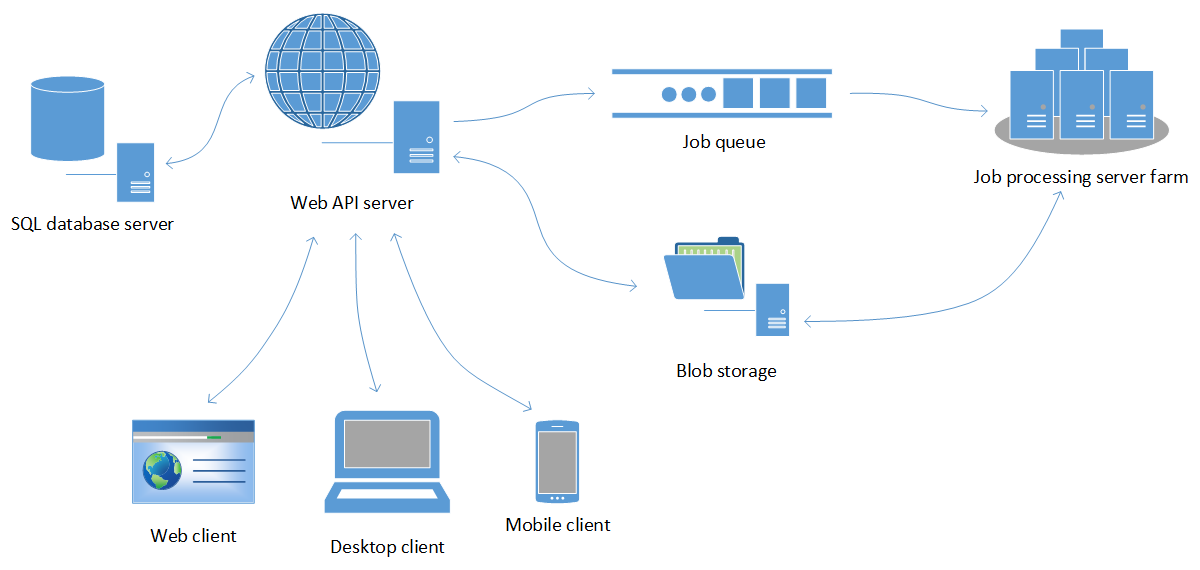
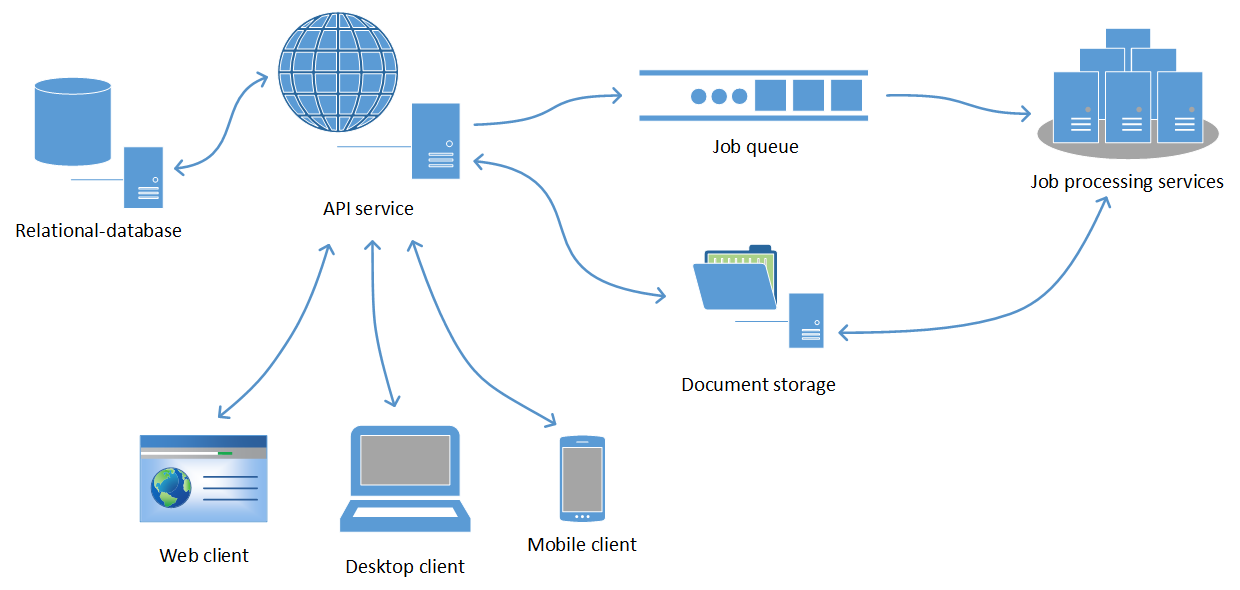
Update figures FEA-architecture and FEA-workflow, add placeholder for layers-tree-diagram

diff --git a/chapters/3-data-management.tex b/chapters/3-data-management.tex
@@ -1,11 +1,28 @@
 \chapter{FEA data management}
 \label{chapter:data-management}
 
-% Psat uz rovnou o mem reseni. Zadne okecavani.
-% Napsat, ze hodlam vyuzit model Software-as-a-service, popis dat bud do footnote, nebo do kapitoly Concepts.
+% TODO: pridat obecny uvod (zadne okecavani, primo k veci, ale jen k tem zakladnim principum)
+% Zopakovat, ze pred popisem samotneho formatu pro reprezentaci vysledku z MKP, je treba popsat architekturu celeho FEA systemu, ktery tyto data produkuje a se kterou to musi byt kompatibilni
+% Architektura je prototyp, na kterem se ma predvest system pro reprezentaci vysledku z FEM. Abych to zasadil do kontextu, popisu nejprve tuto architekturu.
 
 \section{System architecture}
 \label{sec:system-architecture}
+
+The prototype implementation of the FEA data management system is designed as a collaborative framework that can be accessed by users from different client devices. Figure \ref{fig:FEA-architecture} depicts the schema of the system architecture. System consists of several independent modules. The FEM calculation itself runs on a remote server as one of micro-services\footnote{TODO: micro-services} along with mesh generation service, results processing service, etc. These services are controlled by the application service that provides interface to the client applications in form of REST-ful web API\footnote{TODO: REST; REST-ful service; REST web API.}.
+
+% TODO: Client applications: either desktop (feature-rich) or web application(simple, basic control over calculation, presentation of resultsů; cross-platform, everywhere without installation)
+% TODO: Two databases. Relational-database to store project-related data and user data. Blob storage to save file-based data (input to mesh generator or FEM solver, output files). Vstup do FEMu (geometricky model v teto architekture muze byt reprezentovan bud vstupnim souborem vygenerovanym v CADu nebo muze byt ulozen)
+
+\begin{figure}[H]
+    \centering
+    \includegraphics[width=\textwidth]{figures/FEA-architecture}
+    \decoRule
+    \caption{FEA system architecture.}
+    \label{fig:FEA-architecture}
+\end{figure}
+
+The architecture relies on an abstraction provided by Platform-as-a-Service\footnote{PaaS. TODO: These services can be carried in a public cloud or on-premises. ...} computing model. No service component is tied directly to a specific machine. Hardware resources are allocated when they are needed by a service infrastructure controller. This makes the scaling and deployment of components easier and allows to focus on the problem domain instead of solving server configuration and networking issues.
+
 
 % project management, SQL relational database
 % zminit modeller a OOFEM-link, ukazka db modelu
@@ -16,15 +33,7 @@
 
 % project-management, storage-format, modeller (OOFEM-link, script-based engine), post-processors, layer format, filters
 
-Figure \ref{fig:FEA-architecture}, Figure \ref{fig:FEA-workflow}, Figure \ref{fig:FEA-db-schema}, Figure \ref{fig:FEA-db-schema-results}.
-
-\begin{figure}[H]
-    \centering
-    \includegraphics[width=\textwidth]{figures/FEA-architecture}
-    \decoRule
-    \caption{FEA system architecture.}
-    \label{fig:FEA-architecture}
-\end{figure}
+Figure \ref{fig:FEA-workflow}
 
 \begin{figure}[H]
     \centering
@@ -33,6 +42,16 @@ Figure \ref{fig:FEA-architecture}, Figure \ref{fig:FEA-workflow}, Figure \ref{fi
     \caption{FEA system workflow.}
     \label{fig:FEA-workflow}
 \end{figure}
+
+\section{Project-based data representation}
+
+% Centrem vseho je projekt, projekt ma uzivatele vlastnika a muze mit nekolik dalsich lidi, kteri maji pristup k projektu (ruzna prava, pro cteni ci pro zapis...)
+% V ramci jednoho projektu muze byt spusteno vice simulaci, kazda simulace muze mit jiny vstup - at uz geometricky model, atributy, ci jine parametry analyzy. Geometricky model a parametry mohou byt reprezentovany v relacni databazi jak je naznaceno na obrazku \ref{fig:FEA-db-schema}.
+% Tento model se da prirozene rozsirit o dalsi entity reprezentujici vysledky simulace, viz Figure Figure \ref{fig:FEA-db-schema-results}. Vysledek simulace reprezentuje entita Solution, ktera obsahuje odkaz na vystupni soubory z FEM solveru. Dale je zde entita Layer reprezentujici transformovane vysledky ze solveru do podoby vhodne pro postprocessing. (Vice v nasledujici kapitole.)
+
+Figure \ref{fig:FEA-db-schema}, Figure \ref{fig:FEA-db-schema-results}
+
+% TODO: add User entity to schema?
 
 \begin{figure}[H]
     \centering
@@ -50,10 +69,29 @@ Figure \ref{fig:FEA-architecture}, Figure \ref{fig:FEA-workflow}, Figure \ref{fi
     \label{fig:FEA-db-schema-results}
 \end{figure}
 
+% model and mesh in persistent storage
+
+
 \section{Storage format for results}
 \label{sec:storage-format}
 
+% Result converter component ma za ukol transformovat vysledky z FEM solveru do mojeho formatu (predpokladam pouziti solver komponenty, ktera ma vlastni proprietarni format, protoze se snazim navrhnout system nezavisly na jednotlivych komponentach)
+
+% Centrem vseho je solution. To muze byt reprezentovano entitou v DB. Pripadne solution.json souborem v pripadne vysledku ulozenych a postprocessovanych lokalne. Hlavni koncept pri postprocessingu ke vrstva - layer - reprezentuje sit konecnych prvku a korespondujici vysledky at uz v uzlech ci v prvcich. Tyto data mohou byt zkompresovana. Vysvetlit, proc mam vic vrstev. Proc nestaci jedna.
+% TODO: pridat obrazek stromu vrstev.
+
+Figure \ref{fig:layers-tree}
+
+\begin{figure}[H]
+    \centering
+    \includegraphics[width=0.5\textwidth]{figures/layers-tree-diagram}
+    \decoRule
+    \caption{Diagram of layers tree.}
+    \label{fig:layers-tree}
+\end{figure}
+
 % hodne se inspirovat oznacenymi vetami v clanku FEA-with-relational-DB
+
 
 % samotny seznam souboru, ktere pouzivam. Nerikat tomu soubory, ale dokumenty? objekty?
 % summary.json, mesh.json, attribute.json, and result.json - odkaz do Appendixu na example
@@ -62,6 +100,8 @@ Figure \ref{fig:FEA-architecture}, Figure \ref{fig:FEA-workflow}, Figure \ref{fi
 
 % konverze z tradicnich souboru do noveho formatu (do budoucna integrovat do solveru); data location Points/Cells/CellPoints, GP extrapolation
 
+% sit je krome vstupu dulezita i u vystupu. je nutne zachovat 1:1 mapovani vysledku na sit
+
 \subsection {Encoding}
 % base64, JSON, XML, ...
 
@@ -69,8 +109,8 @@ Figure \ref{fig:FEA-architecture}, Figure \ref{fig:FEA-workflow}, Figure \ref{fi
 % Compression methods: SVD, Wavelet, polynomial functions, ... Kazdou rozepsat, u Wavelet zminit Hilbert curve?
 % main features for optimization: key time steps (time step span compression), Randomized SVD, Parallelization, Sparse matrix of details, prenasobeni U matice singularnimi cisly, trochu usetrim pamet, mohu pouzit vzorkovani...
 
-\section{Efficient postprocessing}
-\label{sec:efficient-postprocessing}
+\section{Postprocessing}
+\label{sec:postprocessing}
 
 % layers, filters, vytvoreni Surface vrstvy pro webovy postprocessor, barevna skala, Remote/Local solutions - neni rozdil, postprocessor je tenky klient, prepinani skalarnich velicin, vektorove veliciny - je treba nacist vice komponent najednou. Dekomprese: prenasobeni matic - staci jeden radek. ...
 

diff --git a/chapters/1-introduction.tex b/chapters/1-introduction.tex
@@ -17,7 +17,7 @@ As an motivation example can serve analysis of reactor vessels in nuclear power 
 \label{fig:motivation-example}
 \end{figure}
 
-The thesis is structured in the following manner. Chapter \ref{chapter:related-work} gives a brief revision of related work performed in FEA data management, file formats, data compression, and post-processing of the results. Chapter \ref{chapter:data-management} deals with the alternative to file-based data management. Section \ref{sec:system-architecture} contains proposal of relational database model that connects all parts of Finite element analysis including geometry, model attributes, and simulation results, providing query interface and remote access over the Internet. Section \ref{sec:storage-format} describes details of new data format. Section \ref{sec:efficient-postprocessing} presents design of the postprocessor that is built on top of the data management system. Chapter \ref{chapter-implementation} summarizes interesting technical details and challenges that arose during implementation of the management system and post-processor. Chapter \ref{chapter:overall-results} evaluates the implementation of the tools that are based on the new storage format and contains comparison to the traditional data formats. Chapter \ref{chapter:conclusion} concludes the thesis with final remarks, benefits and weaknesses of the chosen solution, and possible future work.
+The thesis is structured in the following manner. Chapter \ref{chapter:related-work} gives a brief revision of related work performed in FEA data management, file formats, data compression, and post-processing of the results. Chapter \ref{chapter:data-management} deals with the alternative to file-based data management. Section \ref{sec:system-architecture} contains proposal of relational database model that connects all parts of Finite element analysis including geometry, model attributes, and simulation results, providing query interface and remote access over the Internet. Section \ref{sec:storage-format} describes details of new data format. Section \ref{sec:postprocessing} presents design of the postprocessor that is built on top of the data management system. Chapter \ref{chapter-implementation} summarizes interesting technical details and challenges that arose during implementation of the management system and post-processor. Chapter \ref{chapter:overall-results} evaluates the implementation of the tools that are based on the new storage format and contains comparison to the traditional data formats. Chapter \ref{chapter:conclusion} concludes the thesis with final remarks, benefits and weaknesses of the chosen solution, and possible future work.
 
 %----------------------------------------------------------------------------------------
 %	SECTION Concepts
